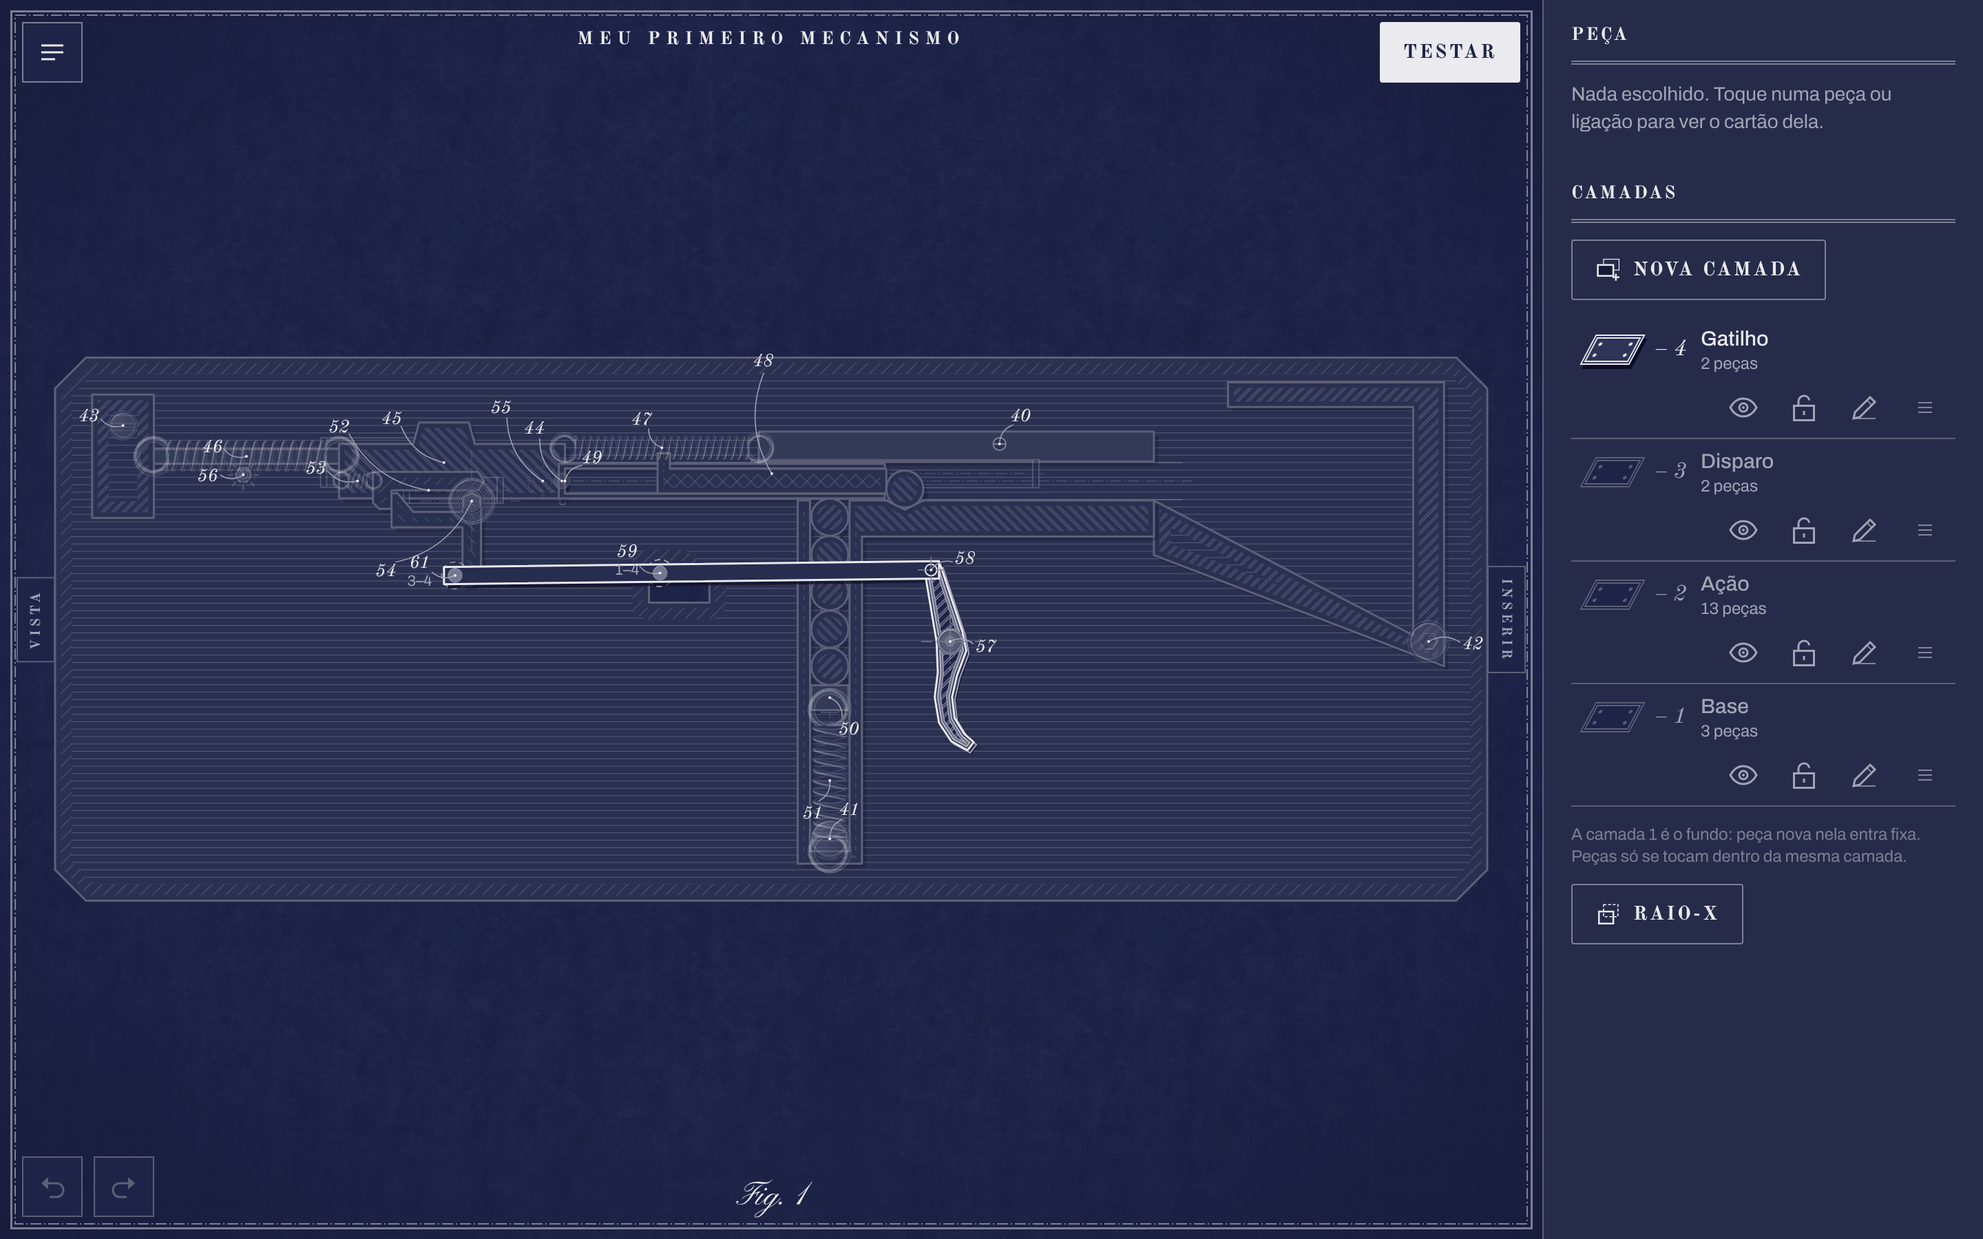
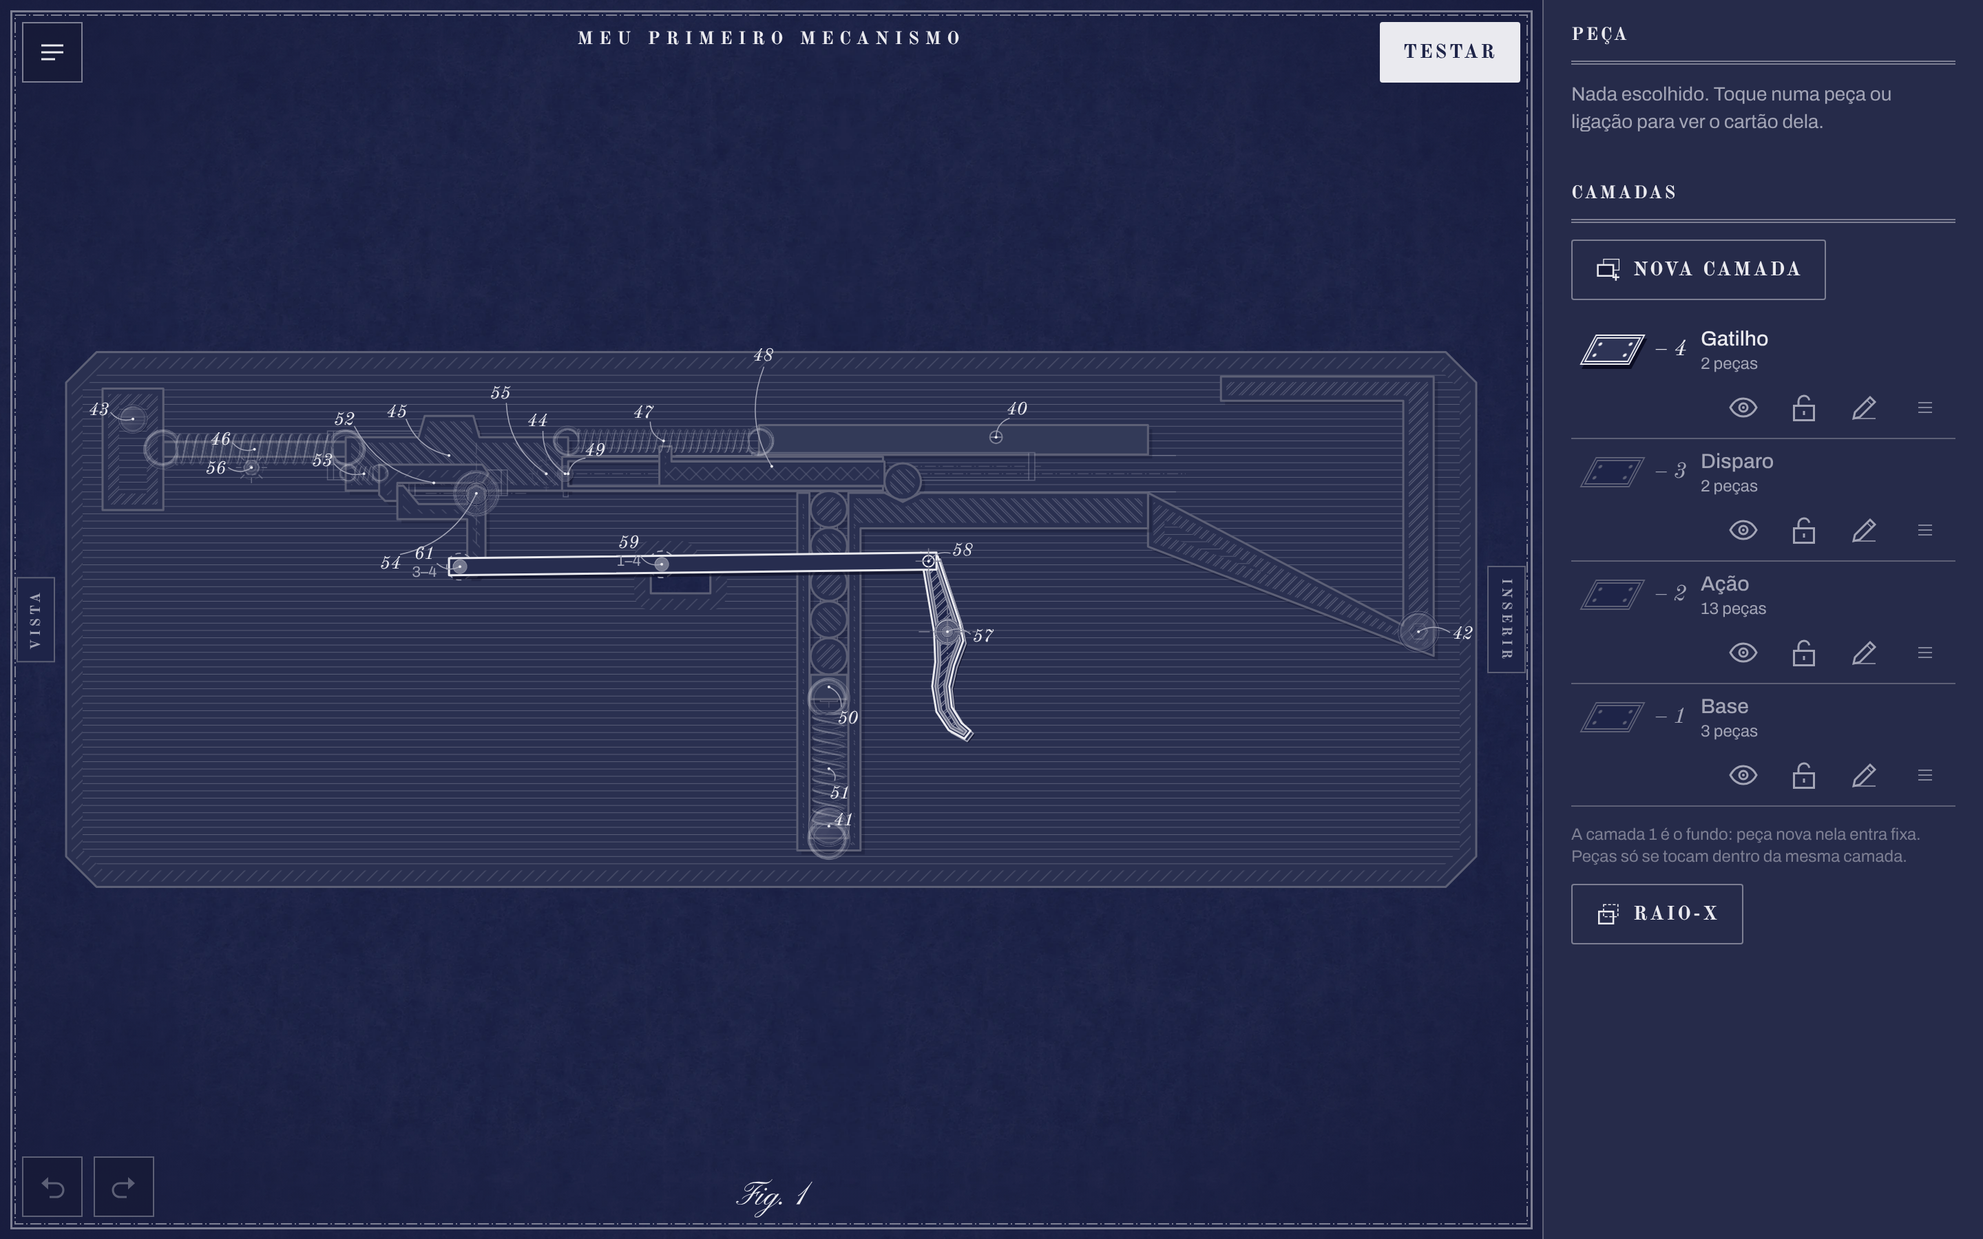
Fase 1 · item 14.7 — verificação, capturas e documentação
docs/verificacao-fase-1-parte-f.md com o antes e o depois de cada problema
relatado, os aceites do lançador de bancada, as medidas e o que ficou de
fora. Capturas em docs/capturas/fase-1/parte-f/: as três velocidades com
os botões (Real com a frase), quatro quadros seguidos de Lento, o arrasto
forte no Cabo com o cabo inteiro, o exemplo-vitrine (Montar, repouso,
meio do recuo em Lento, esfera saindo, coletor) e a paisagem em 844×390
e 640×360. /#perf refeito (60 qps em Lento, Normal e Real), hash Node =
Chromium em todas as cenas, check:overflow em 45 casos. O aviso curto
sem Desfazer ganhou margem à direita.

Claude-Session: https://claude.ai/code/session_01C4EU3ZGqLhYt2Fwd9Me1zL

Changed region(s): [[0.0312, 0.28, 0.75, 0.7467]]

diff --git a/tests/e2e/parte-f.spec.ts b/tests/e2e/parte-f.spec.ts
@@ -76,7 +76,18 @@ test.describe("velocidades", () => {
         test(`${name}`, async ({ page }) => {
           await boot(page);
           await test_(page);
-          await page.evaluate((s) => (window as unknown as W).__IL__.sim.getState().ctl!.setSpeed(s), speed);
+          if (speed === 1) {
+            // Real pelo botão de verdade: a frase da primeira vez aparece
+            if (vp.mobile) await page.locator(".simctl__cycle").click();
+            else await page.getByRole("button", { name: /^Real/ }).click();
+            await expect(
+              page.getByText("Tempo real: peças pequenas se movem rápido de verdade."),
+            ).toBeVisible();
+          } else
+            await page.evaluate(
+              (s) => (window as unknown as W).__IL__.sim.getState().ctl!.setSpeed(s),
+              speed,
+            );
           await page.waitForTimeout(600);
           await page.screenshot({ path: `${DIR}/velocidade-${name}-${vp.name}.png` });
         });
@@ -268,4 +279,38 @@ test.describe("toque em outra camada", () => {
     });
     expect(after).toEqual({ layer: 0, part: "Placa de base" });
   });
+});
+
+/** Arrasto forte no "Cabo" (laboratório, Real): o peso vai até o fim do cabo e o cabo fica inteiro. */
+test.describe("cabo", () => {
+  for (const vp of [
+    { name: "390x844", width: 390, height: 844 },
+    { name: "1440x900", ...DESK },
+  ]) {
+    test.describe(vp.name, () => {
+      test.use({ viewport: { width: vp.width, height: vp.height }, deviceScaleFactor: 2 });
+      test("arrasto forte", async ({ page }) => {
+        await page.goto("/#lab/fixacoes/cabo");
+        const svg = page.locator(".lab__svg");
+        await svg.waitFor();
+        await page.getByRole("button", { name: /^Real/ }).click();
+        await page.locator(".lab__stagewrap").scrollIntoViewIfNeeded();
+        await page.waitForTimeout(800);
+        const box = (await page.locator('.lab__svg [data-part="p1"]').boundingBox())!;
+        const x = box.x + box.width / 2;
+        const y = box.y + box.height / 2;
+        await page.mouse.move(x, y);
+        await page.mouse.down();
+        // o dedo vai longe e rápido, na diagonal (o peso de Ø 18 mm está a 59 mm
+        // abaixo do ponto do cabo): até o mundo (200, 200), 4 vezes o cabo
+        const k = box.width / 18;
+        await page.mouse.move(x + 200 * k, y + (200 - 59) * k, { steps: 6 });
+        await page.waitForTimeout(500);
+        await page
+          .locator(".lab__stagewrap")
+          .screenshot({ path: `${DIR}/cabo-arrasto-forte-${vp.name}.png` });
+        await page.mouse.up();
+      });
+    });
+  }
 });

diff --git a/src/styles/shell.css b/src/styles/shell.css
@@ -1209,6 +1209,11 @@
   padding: var(--space-2) 0;
 }
 
+/* aviso sem o botão Desfazer: a margem da direita é do próprio texto */
+.toast__text:last-child {
+  padding-right: var(--space-4);
+}
+
 .toast__undo {
   pointer-events: auto;
   align-self: stretch;

diff --git a/docs/verificacao-fase-1-parte-f.md b/docs/verificacao-fase-1-parte-f.md
@@ -1,0 +1,93 @@
+# Verificação — Fase 1 · Parte F (correções do teste real e exemplo-vitrine)
+
+Data: 05/11/2026. Branch `ccr-70458c4e-91j7fx` (o branch de trabalho desta sessão; o prompt pedia `fase-1-parte-f`). Máquina: Node 22 e Chromium headless, 4 núcleos, sem GPU.
+
+## Itens
+
+| Item | Feito | Commit |
+| --- | --- | --- |
+| 14.1 Velocidades | Lento (1/20), Normal (¼, o padrão ao entrar em Testar e ao abrir uma cena no laboratório) e Real (1×), com a fração embaixo do nome, no app e no `/#lab`; frase da primeira vez em Real, uma vez por aparelho. `src/sim/pacing.ts` (modos e o `Pacer`) | `6d83a06` |
+| 14.2 Câmera lenta fluida | O desenho mistura o passo anterior e o seguinte a cada quadro (posição e pressão lineares, ângulo pelo menor arco; molas, cabos, gás e chamadas saem das poses), no app e no laboratório; eventos no quadro em que o desenho chega ao passo; `/#perf` com a escolha da velocidade e o custo da interpolação | `853beb6` |
+| 14.3 Arrasto da mão | Força e velocidade limitadas (`HAND`, `handLimits` em `src/engine/runtime.ts`); o alvo para quando o dedo para; fórmulas e números em `docs/arquitetura.md` §4, "Arrasto" | `bc6fa4c` |
+| 14.4 Teste de abuso | `src/sim/abuse.ts`, modo rápido no Vitest e completo por `npm run abuse`; correções na causa; `docs/decisoes/abuso.md` | `faadddb` |
+| 14.5 Exemplo-vitrine | Lançador de bancada (`scenes/examples/lancador-bancada.json`, gerado por `scripts/fixtures/bancada.ts`), cena de teste e capturas no app | `f9761ac` |
+| 14.6 Paisagem | Enquadramento que desvia só dos controles (`fitAround`), controles com fundo chrome translúcido, teste do toque em outra camada, `check:overflow` em 844×390 e 640×360 | `1181a4a` |
+| 14.7 Verificação | Este documento e as capturas em `docs/capturas/fase-1/parte-f/` | commit deste documento |
+
+## Antes e depois de cada problema relatado
+
+### 1. "Em 1× fica exageradamente rápido, como se fosse 4×"
+
+- **Antes:** 1× já era tempo real (o relógio do laboratório andava 0,5 s em 0,5 s de vídeo). O que parecia acelerado é física real em peça pequena vista grande: um pêndulo de 50 mm tem período de 0,45 s. O 0,25× fazia o papel de "velocidade comum".
+- **Depois:** os nomes dizem o que cada um é. **Normal** (¼) é o padrão; **Lento** (1/20); **Real** (1×), e a primeira vez que a pessoa toca em Real aparece "Tempo real: peças pequenas se movem rápido de verdade.". A física continua em tempo real e em unidades reais; a régua e o relógio, em tempo simulado.
+- Teste: `src/sim/pacing.test.ts` (1 s de tela = 0,05, 0,25 e 1 s simulado, ±1%, a 30, 60 e 120 qps e com tremor). Captura: `velocidade-{lento,normal,real}-{844x390,1440x900}.png` (Real com a frase).
+
+### 2. "O 0,05× diminui muito o FPS"
+
+- **Antes:** o laço desenhava só quando chegava um passo; em 0,05× um passo de 1/240 s cai a cada ~5 quadros, e a cena andava aos saltos (~12 qps aparentes) com a página a 60 qps.
+- **Depois:** o desenho mistura dois passos em todo quadro. Teste com relógio falso (`src/sim/blend.test.ts`): em Lento o pêndulo muda de pose em todo quadro (sem a mistura repetia em 4 de 5). Captura: `lento-quadro-{1..4}-844x390.png` (quatro quadros seguidos de Lento no meio do recuo: o ferrolho e a pressão do gás entre dois passos).
+- Medida (`/#perf`, 150 peças e 100 ligações, Chromium desta sessão, 1440×900; `docs/decisoes/perf-parte-f.json`):
+
+| Velocidade | qps mediana · p5 | Quadros > 20 ms | Desenho/quadro (mediana · p95) | Interpolação/quadro (média) |
+| --- | --- | --- | --- | --- |
+| Lento | 59,9 · 59,5 | 1 de 541 | 0,5 · 0,7 ms | 0,008 ms |
+| Normal | 59,9 · 59,9 | 0 de 541 | 0,5 · 0,8 ms | 0,004 ms |
+| Real | 59,9 · 59,5 | 0 de 541 | 0,5 · 0,7 ms | 0,004 ms |
+
+### 3. "Algumas coisas não agem como deveriam" (física)
+
+- **Antes:** o arrasto puxava com `(6 000·m + 4 000)·g/100`: com gravidade real, ~98 vezes a força do protótipo, dezenas de vezes o peso (um peso de 20 g com 12 N). E o corpo-alvo do dedo só recebia posição quando o dedo andava: parado, ele seguia na última velocidade e levava a peça embora. No teste de abuso (mesmo roteiro, antes e depois): o peso do "Cabo" a 9,9 m/s, a barra do suporte elástico arrancada a 6,75 vezes o limite, pêndulo e molas a 3–9 m/s, juntas abrindo até 21 mm. O cabo em si nunca passou de 50,34 mm no motor (o que parecia cabo esticado no vídeo não reproduzi: o peso voava a 9,9 m/s para fora da vista).
+- **Depois:** a mão (14.3): alvo a no máximo 600 mm/s de tempo simulado, força de 10 vezes o peso mais as molas ao alcance da peça, nunca mais que o que abre uma junta da peça 0,25 mm nem o que deforma um suporte elástico além da faixa dele. Cabo: 0,65 m/s e 50,003 mm; suporte elástico: 0,97 do limite; pêndulo e molas abaixo de 1,4 m/s. Captura: `cabo-arrasto-forte-{390x844,1440x900}.png` (Real, o dedo puxando a 4 vezes o cabo: o peso fica na ponta do cabo de 50 mm).
+- O abuso achou e corrigiu na causa, além da força: **bug do gás** (pistão que saía do cilindro e caía era puxado de volta de metros de distância pela mola do gás), **"bala" e juntas** (a colisão contínua de bala do Box2D não respeita as juntas: prendia um elo de corrente no vizinho e o percussor no ferrolho) e **o motor de 40 N·mm** da cena de desempenho esmagando um bloco de 0,35 g.
+- Resultado: das 29 cenas, 16 sem nenhuma falha (antes 6); 20 falhas de invariante (antes 44), todas falhas esperadas com motivo e números em `docs/decisoes/abuso.md` (ver "Riscos").
+
+### 4. O lançador de ferrolho ("o gatilho tá apontado pro outro lado"; "no mínimo um exemplo bem trabalhado")
+
+- **Antes:** corpo de pistola com empunhadura e mira, gatilho com a face convexa para a frente, recuo de 22 mm, esferas saindo da tela.
+- **Depois:** **Lançador de bancada**, o novo objeto padrão (ver "O exemplo-vitrine" abaixo). Capturas no app em 844×390 e 1440×900: `vitrine-montar`, `vitrine-repouso`, `vitrine-meio-do-recuo-lento`, `vitrine-esfera-saindo`, `vitrine-coletor`.
+
+### 5. Paisagem: "coluna escura à esquerda com ~20% da largura"
+
+- **Antes:** a "coluna" das capturas da E2a não era um painel: era a borda esquerda da placa de base das engrenagens (a placa não chega à esquerda e o resto é fundo vazio). Mas o enquadramento reservava faixas inteiras (60 px em cima e embaixo, 40 px dos lados) e os controles tinham fundo opaco.
+- **Depois:** o enquadramento mede os retângulos dos controles que flutuam (cantos, título, abas, faixa do Testar) e procura a maior escala em que a caixa do mecanismo não encosta neles nem passa das áreas seguras (`fitAround`). Controles com fundo chrome translúcido. O lançador de bancada ocupa **94% da altura útil em 844×390 e 86% em 640×360** (afirmado no teste; `paisagem-*.json`). Toque numa peça de outra camada a escolhe e ativa a camada dela (já era assim desde a E2a; agora tem teste). Capturas: `paisagem-{vitrine,engrenagens}-{844x390,640x360}.png`.
+
+## O exemplo-vitrine
+
+1. Placa de base de alumínio (camada 1, Base) com o suporte traseiro e a haste-guia; o cano, o canal do carregador e o coletor são peças fixas aparafusadas a ela (os únicos parafusos).
+2. Ação (camada 2): ferrolho de aço num trilho da placa, com a luva (o cilindro do gás) aparafusada e a mola de retorno na haste-guia; o êmbolo corre dentro da luva; a câmara de gás tem duas paredes (êmbolo à frente, ferrolho atrás) e aparece em corte, com a esfera assentada e o gás em brasa.
+3. Disparo (camada 3): percussor num trilho do ferrolho, preso no retém (eixo com mola de torção); o sensor no fundo da câmara acende uma dose e fecha a válvula de alívio; o sensor no fim do curso do ferrolho a abre (o êmbolo volta sem colchão de gás).
+4. Gatilho (camada 4): face côncava para a boca, o dedo puxa para trás; a barra leva o movimento ao retém por um pino entre camadas e o rasgo da placa abaixa a barra no fim do curso (desconector).
+5. Na volta do ferrolho, a próxima esfera sobe do carregador vertical (empurrador de aço, mola amortecida) e o êmbolo a leva ao assento; a que saiu bate na parede do coletor e se junta às outras.
+
+Aceites (cena de teste `scenes/fixtures/exemplos/lancador-bancada.test.json`, 4 execuções, todas as afirmações passam):
+
+| Aceite | Medido |
+| --- | --- |
+| Repouso parado, percussor preso, sem disparo, próxima esfera encostada na luva, esfera 1 assentada | 0,000 mm; 0,09 mm; 0 eventos; sem folga; 9,65 mm / 1,30 mm |
+| Disparo com o gatilho segurado: um tiro, desconexão (nenhum segundo tiro em 1 s) | 1 evento; 1 carga |
+| Esfera sai pela boca a 5–20 m/s | 10,3 a 10,4 m/s nas seis |
+| Recuo visível de 8 a 15 mm | 15,0 mm (o gás empurra até 14,5 mm; em 4 passos) |
+| Volta ao batente em até 0,3 s; ciclo em Normal entre 0,5 e 2 s de tela | 217 a 250 ms simulados = 0,87 a 1,0 s de tela |
+| Gás não fica preso | abaixo de 5% do pico no passo em que desveda |
+| Seis ciclos e o carregador vazio | 7 puxões, 7 acendimentos, 7 cargas; cada ciclo termina com o percussor preso e o ferrolho no batente |
+| As esferas param no coletor e ficam lá | as seis em fila na rampa, de x = 62 a 89 mm (a parede está em 92), paradas no último 0,5 s (0,000 mm) |
+| Arrasto manual do ferrolho | o dedo leva o ferrolho ao fim do curso (15,0 mm) sem acender a carga; soltando, a esfera 2 entra e se assenta, o ferrolho volta, o percussor fica preso, a esfera da câmara sai rolando para o coletor |
+| Robustez (fora da cena de teste) | o ciclo de seis tiros passa com o puxão deslocado de 1 a 13 passos e segurando 0,25, 0,32 e 0,4 s: 30 de 30 |
+
+Massas: ferrolho com a luva 13,7 g (aço), êmbolo 0,74 g, esferas 0,89 g, empurrador 0,75 g, percussor 0,49 g, retém 0,63 g, gatilho 2,42 g, barra 2,03 g. Dose de 0,5 mmol por tiro (12 doses), câmara Ø 6 × 15 mm.
+
+Revisão de diretor de arte (feita sobre as capturas, ao lado do frame oficial a): saíram o corpo de pistola, a empunhadura e o ressalto de mira do cano (lembravam arma e não tinham função), os quatro parafusos de canto (sem ligação de verdade, só ruído de números) e o excesso de cano (98 → 64 mm, para o conjunto caber maior no celular); o carregador deixou de passar da placa; os números das ligações seguem a montagem (40–43 fixações, 44–51 ação, 52–56 disparo, 57–61 gatilho).
+
+## Verificação padrão
+
+- `npm run lint`, `npm run typecheck`, `npm test` (Vitest: 632 testes e as 4 falhas esperadas antigas da bancada, mais os testes do pipeline de assets) e `npm run build`: limpos, sem avisos.
+- `npm run check:overflow`: 45 casos, sem rolagem lateral em 360, 390 e 412 px, em 844×390 e em 640×360.
+- `npm run test:e2e`: hash do Chromium igual ao do Node em todas as cenas de `scenes/fixtures/`.
+- `npx playwright test --project=capture-f`: 16 testes (capturas, `/#perf` nas três velocidades, altura útil em paisagem, toque em outra camada).
+- Teste de abuso: rápido no Vitest (~20 s); completo por `npm run abuse` (837 execuções, ~6 min).
+
+## O que ficou de fora e por quê
+
+- **Penetração no impacto entre peças móveis** (falha esperada em 13 cenas): o Box2D v3 só cria o contato a 0,1 mm, e a 1/240 s uma peça a 0,5–2 m/s anda 2–8 mm por passo. O conserto é passo menor ou distância especulativa maior, as duas decisões fechadas da calibração. Números em `docs/decisoes/abuso.md`.
+- **A peça acompanha o dedo em tempo de tela só até a velocidade do alvo** (600 mm/s simulados: 30 mm/s de tela em Lento, 150 em Normal). Mais rápido que isso, ela fica para trás, de propósito: é o que impede o dedo de virar 2 000 mm/s em Lento.
+- **Medidas no celular do Will**: `/#perf` (agora com Lento, Normal e Real) continua pendente.

diff --git a/docs/arquitetura.md b/docs/arquitetura.md
@@ -274,7 +274,7 @@ Passo fixo de 1/240 s, com acumulador. Câmera lenta reduz o tempo simulado por 
 
 **Velocidades (Parte F).** A física é sempre em tempo real e em unidades reais; a interface escolhe quanto tempo simulado cabe em cada segundo de tela: **Lento** (1/20), **Normal** (¼, o padrão ao entrar em Testar e ao abrir uma cena no laboratório) e **Real** (1×). Real em peça de milímetros parece acelerado porque é: um pêndulo de 50 mm tem período de 0,45 s. A régua e o relógio continuam em tempo simulado. A primeira vez que a pessoa escolhe Real, uma frase explica isso (uma vez por aparelho, `localStorage`).
 
-**Desenho entre passos (Parte F).** `src/sim/pacing.ts`: o `Pacer` guarda a posição de desenho em passos (fracionária) e pede ao worker sempre um passo adiante (`ceil(t) + 1`); o desenho mistura o passo anterior com o seguinte (`Recorder.blend`: posição e pressão lineares, ângulo pelo menor arco; molas, cabos, gás e chamadas saem das poses misturadas). Em Lento a cena anda em todo quadro (antes, um passo a cada ~5 quadros). Os eventos (sensor) aparecem no quadro em que o desenho chega ao passo deles. A linha do tempo e o "continuar daqui" usam passos inteiros. Custo da mistura: 0,004–0,026 ms por quadro na cena de 150 peças (`docs/decisoes/perf-parte-f.json`).
+**Desenho entre passos (Parte F).** `src/sim/pacing.ts`: o `Pacer` guarda a posição de desenho em passos (fracionária) e pede ao worker sempre um passo adiante (`ceil(t) + 1`); o desenho mistura o passo anterior com o seguinte (`Recorder.blend`: posição e pressão lineares, ângulo pelo menor arco; molas, cabos, gás e chamadas saem das poses misturadas). Em Lento a cena anda em todo quadro (antes, um passo a cada ~5 quadros). Os eventos (sensor) aparecem no quadro em que o desenho chega ao passo deles. A linha do tempo e o "continuar daqui" usam passos inteiros. Custo da mistura: 0,004–0,008 ms por quadro (média) na cena de 150 peças (`docs/decisoes/perf-parte-f.json`).
 
 ### Escala de tela
 

diff --git a/docs/decisoes/desempenho.md b/docs/decisoes/desempenho.md
@@ -25,11 +25,11 @@ A página `/#perf` ganhou a escolha da velocidade (Real, o padrão da medição;
 
 | Velocidade | qps mediana · p5 | Quadros > 20 ms | Passos por quadro | Física/quadro (mediana · p95) | Desenho/quadro (mediana · p95) | Interpolação/quadro (média · p95) |
 | --- | --- | --- | --- | --- | --- | --- |
-| Lento (1/20) | 59,9 · 59,5 | 1 de 540 | 0,2 | 0 · 2,2 ms | 0,7 · 3,0 ms | 0,004 · 0 ms |
-| Normal (¼) | 59,9 · 59,9 | 1 de 540 | 1,0 | 1,7 · 3,2 ms | 0,7 · 3,0 ms | 0,006 · 0,1 ms |
-| Real (1×) | 59,9 · 59,5 | 3 de 538 | 4,0 | 6,4 · 12,6 ms | 0,7 · 4,0 ms | 0,026 · 0,1 ms |
+| Lento (1/20) | 59,9 · 59,5 | 1 de 541 | 0,2 | 0,0 · 1,5 ms | 0,5 · 0,7 ms | 0,008 · 0,0 ms |
+| Normal (¼) | 59,9 · 59,9 | 0 de 541 | 1,0 | 1,1 · 1,5 ms | 0,5 · 0,8 ms | 0,004 · 0,0 ms |
+| Real (1×) | 59,9 · 59,5 | 0 de 541 | 4,0 | 3,7 · 6,9 ms | 0,5 · 0,7 ms | 0,004 · 0,0 ms |
 
-Em Lento o desenho agora roda em todo quadro (antes, só nos quadros em que chegava um passo, ~1 em 5): o custo é a escrita dos `transform` (0,7 ms de mediana), igual à de Normal.
+Em Lento o desenho agora roda em todo quadro (antes, só nos quadros em que chegava um passo, ~1 em 5): o custo é a escrita dos `transform` (0,5 ms de mediana), igual à de Normal.
 
 ## Onde o tempo ia e o que foi corrigido
 
